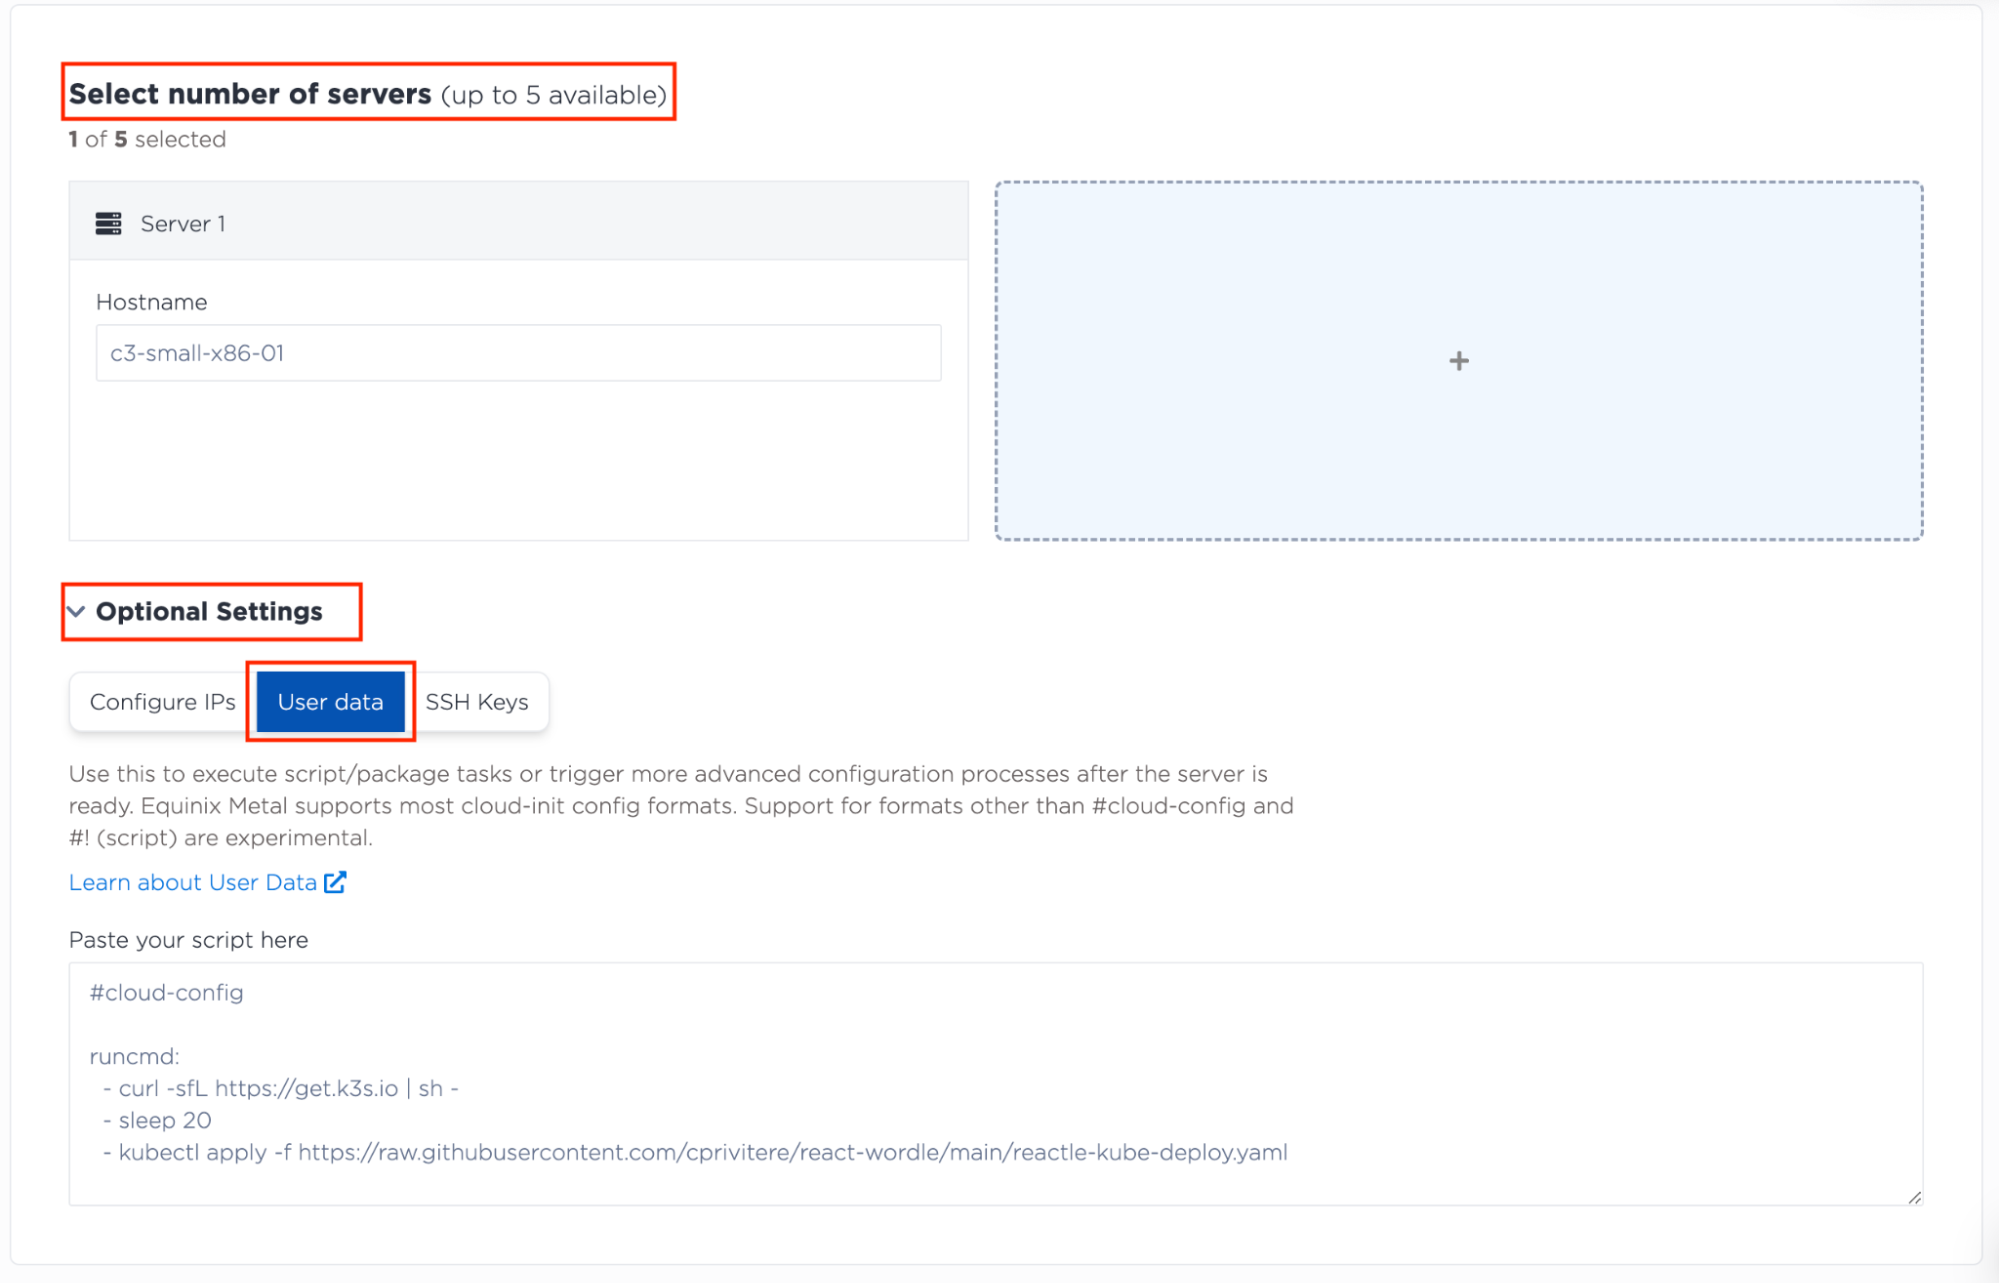
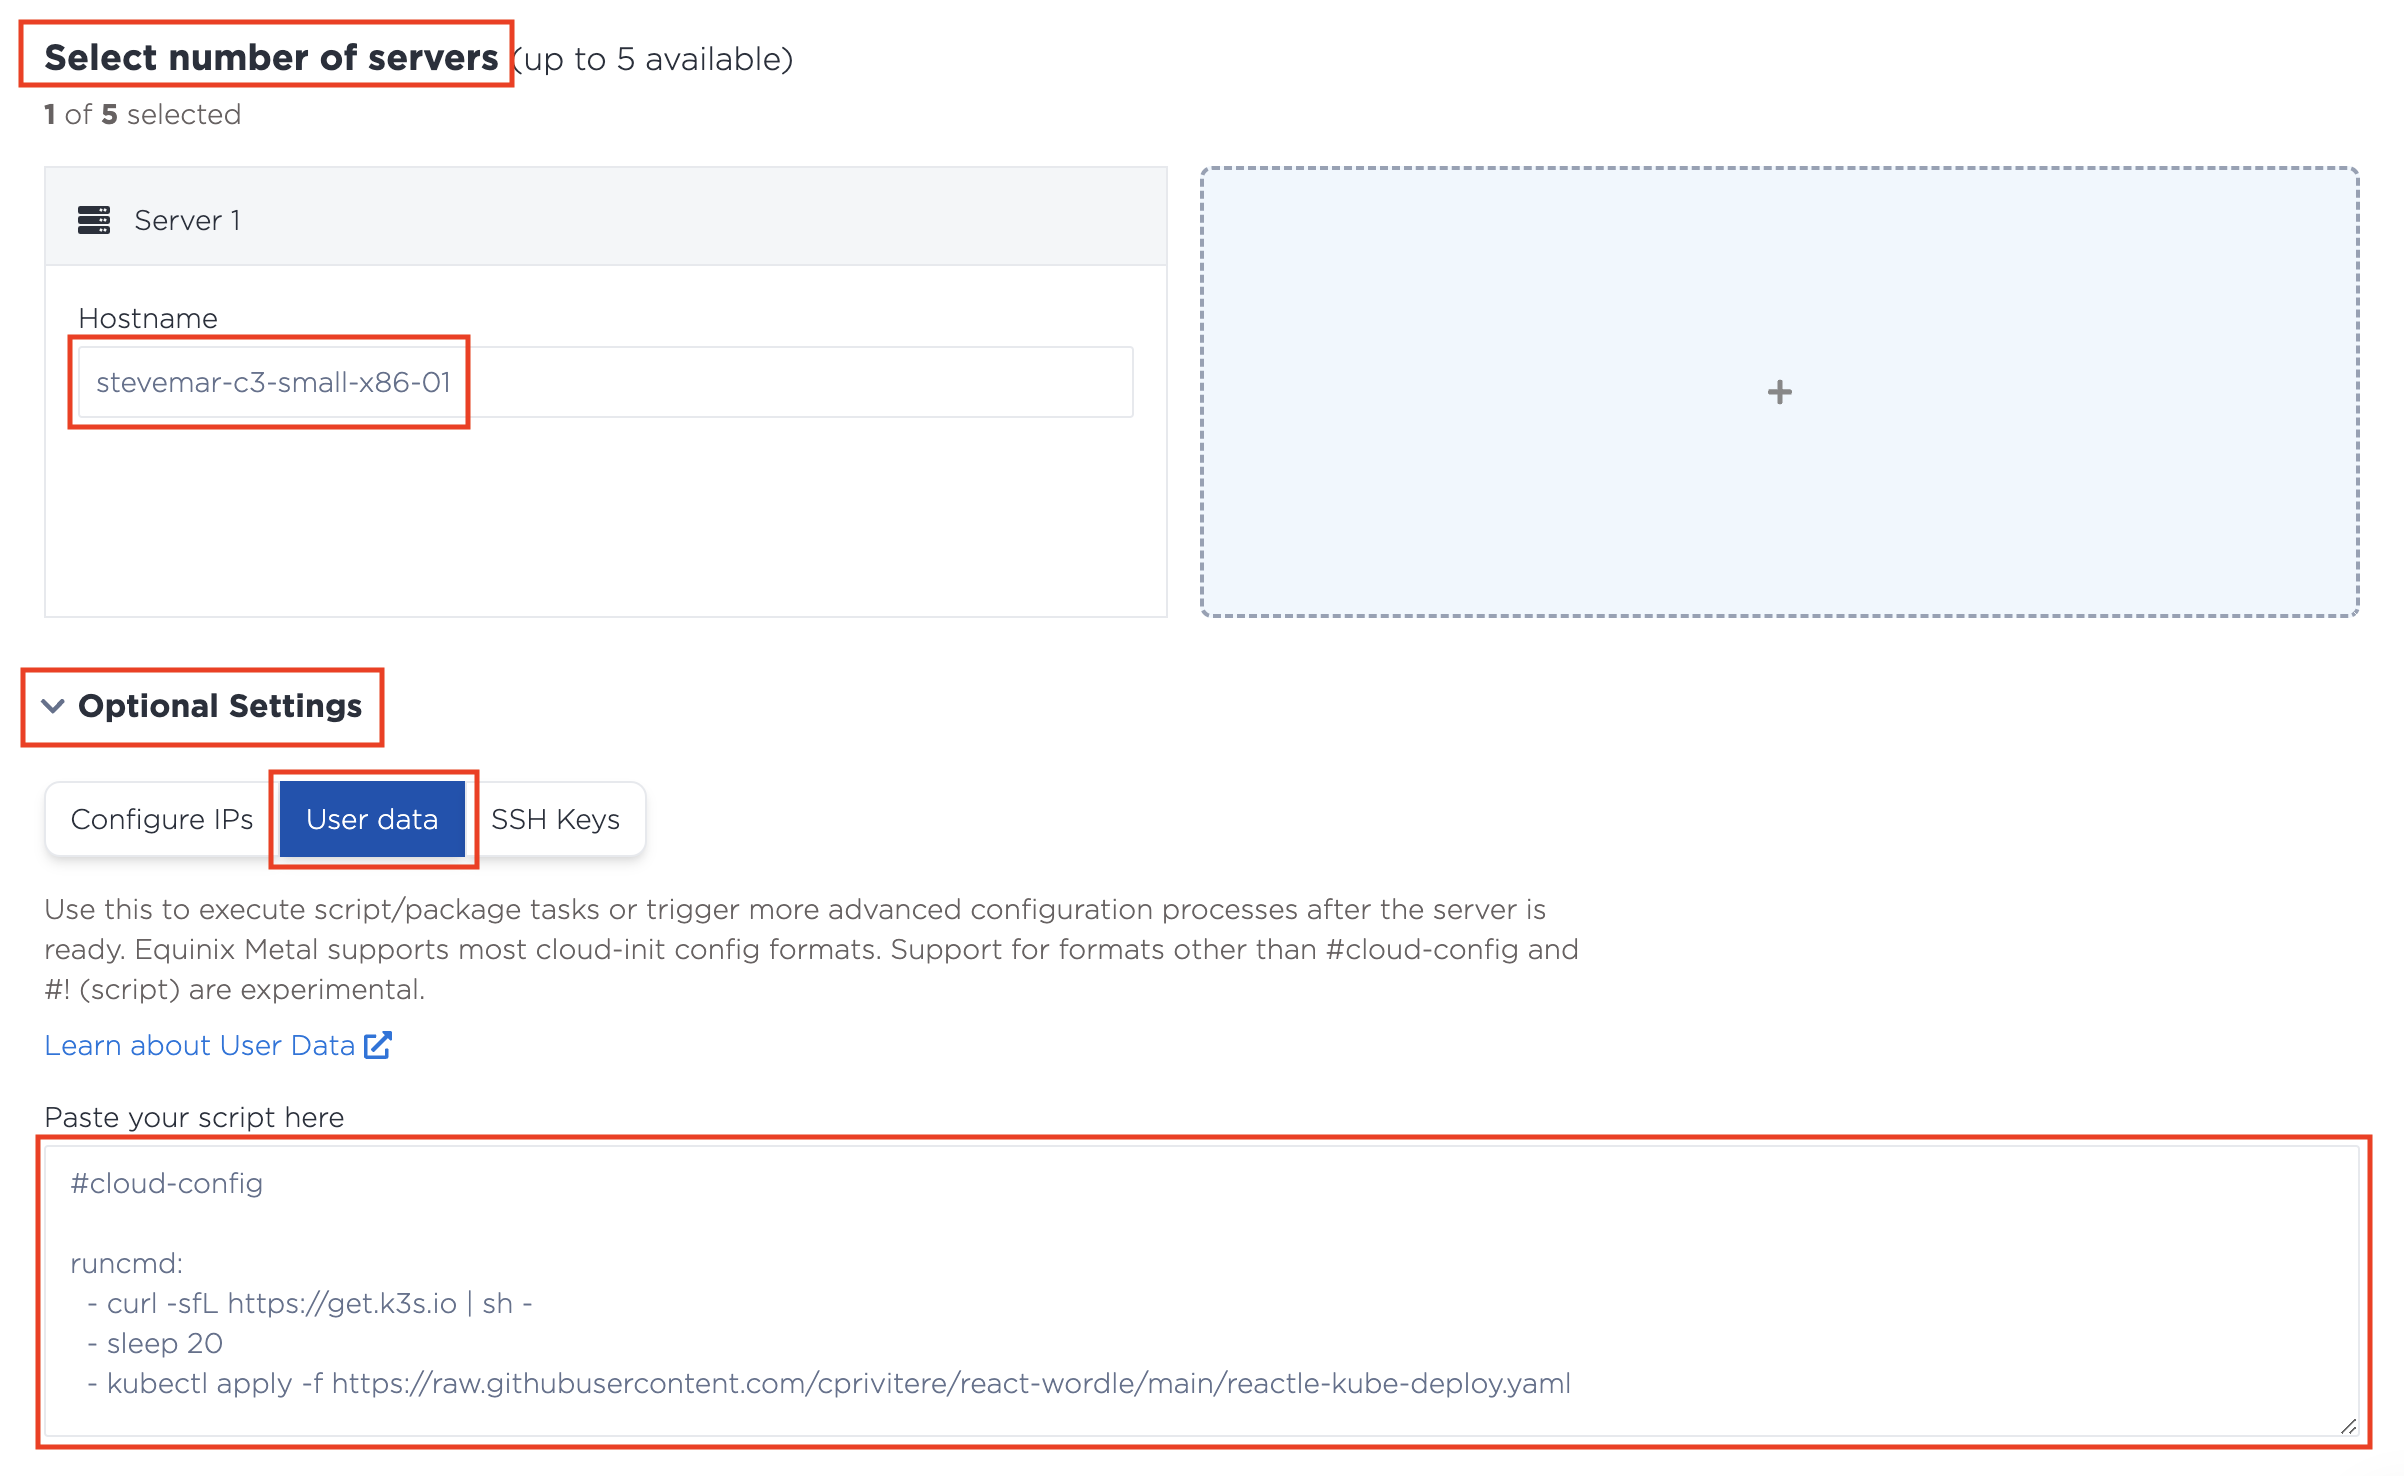
address maras feedback

diff --git a/docs/stylesheets/extra.css b/docs/stylesheets/extra.css
@@ -1,6 +1,6 @@
 :root {
     --md-primary-fg-color: #ED1C24;
-    /* Gray HEX #707073 */
+    --md-accent-fg-color: #707073;
 }
 
 img {
@@ -9,5 +9,10 @@ img {
     border: 1px solid #9f9f9f;
     transition: transform ease-in-out 0.3s;
     box-shadow: 0 4px 8px 0 rgba(0, 0, 0, 0.2), 0 6px 20px 0 rgba(0, 0, 0, 0.19);
+}
+
+/* custom-styles.css */
+.md-typeset pre > code {
+    max-height: 20rem;
 }
 

diff --git a/docs/part4.md b/docs/part4.md
@@ -3,14 +3,15 @@
 Thank you for participating in the workshop! Let's recap some of the key takeways that we've learned:
 
 * You can get started on Equinix Metal for as little as $1/hr
-* 
+* Equinix Metal provides access to the Equinix network
+* Equinix Metal does the racking, stacking, and automating of getting your a bare metal server
 
 ## Resources
 
 Here are a few other resources to look at to continue your Equinix Metal journey:
 
-* Equinix Labs: Provides SDKs for popular Infrastructure as Code tools.
-* Equinix Metal Docs: 
-* Equinix Metal APIs:
-* Deploy @ Equinix: A one-stop shop for blogs, guides, and plenty of resources
-* Equinix Community: 
+* [Deploy @ Equinix](https://deploy.equinix.com): A one-stop shop for blogs, guides, and plenty of other resources.
+* [Equinix Metal Docs](https://deploy.equinix.com/developers/docs/metal): Equinix Metal official documentation.
+* [Equinix Metal APIs](https://deploy.equinix.com/developers/api/metal): Programmatically interact with Equinix Metal
+* [Equinix Labs](https://github.com/equinix-labs): Provides SDKs and Terraform modultes for Infrastructure as Code tools.
+* [Equinix Community](https://community.equinix.com): A global community for customers and Equinix users.

diff --git a/docs/part3.md b/docs/part3.md
@@ -12,13 +12,13 @@ Navigate back to the **On Demand** section that we used in the previous part and
 * Choose a server type, use  `c3.small.x86` or `m3.small.x86`.
 * Choose an operating system, use **Ubuntu 20.04 LTS**.
 
-Under the **Select number of servers** option, click on the **Optional Settings** part, and then the **User data** tab.
+Under *Select number of servers* give your server a unique hostname. Then click on **Optional Settings**, and then the **User data** tab.
 
 ![](images/part3/1-cloud-config.png)
 
 Copy and paste the snippet of code below into the text box.
 
-```yaml title=""
+```yaml
 #cloud-config
 
 # This cloud-init file is intended to provide a "no-code" way of deploying
@@ -166,7 +166,7 @@ From the left navigation, click on **Manage Servers**, it's under the **Bare met
 
 Launch a browser and navigate to the following URL:
 
-``` title=""
+```
 http://<ip-address>
 ```
 

diff --git a/docs/part2.md b/docs/part2.md
@@ -32,15 +32,15 @@ Choose an **operating system**. We recommend **Ubuntu 20.04 LTS**.
 
 ![](images/part2/4-os.png)
 
-### 2. Configure your server's cloud init part
+### 2. Configure your server with clout init
 
-Under the **Select number of servers** option, click on the **Optional Settings** part, and then the **User data** tab.
+Under *Select number of servers* give your server a unique hostname. Then click on **Optional Settings**, and then the **User data** tab.
 
 ![](images/part2/5-cloud-config.png)
 
 Copy and paste the snippet of code below into the text box.
 
-```yaml title=""
+```yaml
 #cloud-config
 
 runcmd:
@@ -92,7 +92,7 @@ Click on the **Network** tab and find the public IP address.
 
 Launch a browser and navigate to the following URL:
 
-``` title=""
+```
 http://<ip-address>:31000
 ```
 
